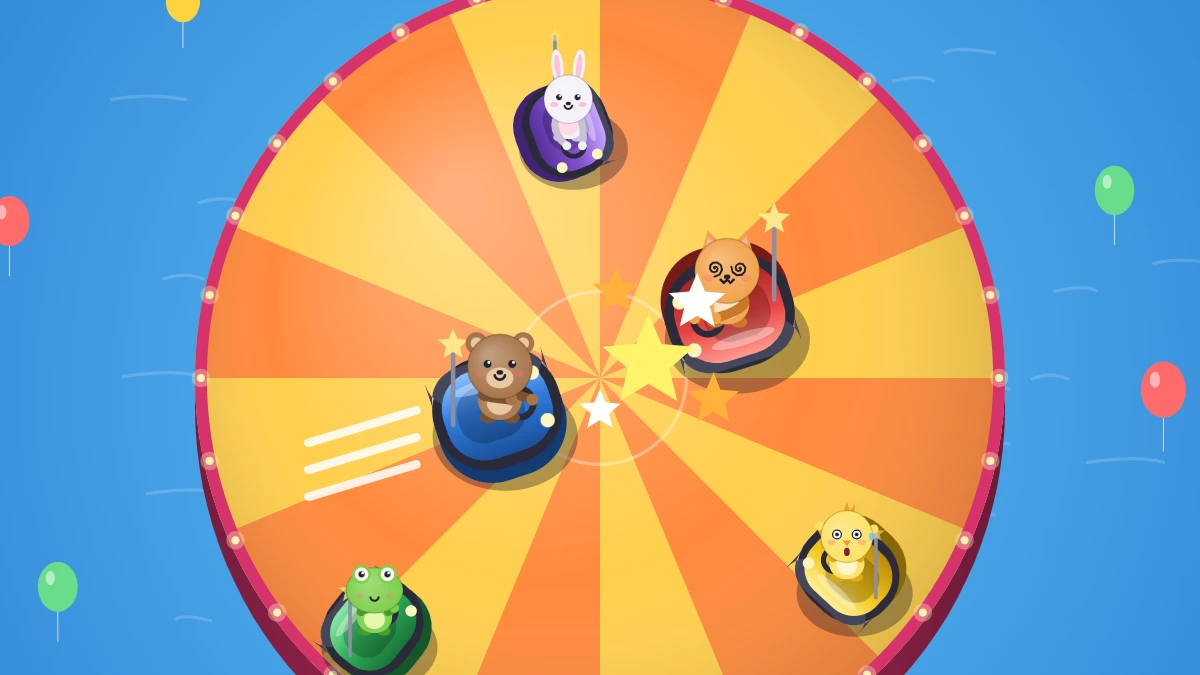
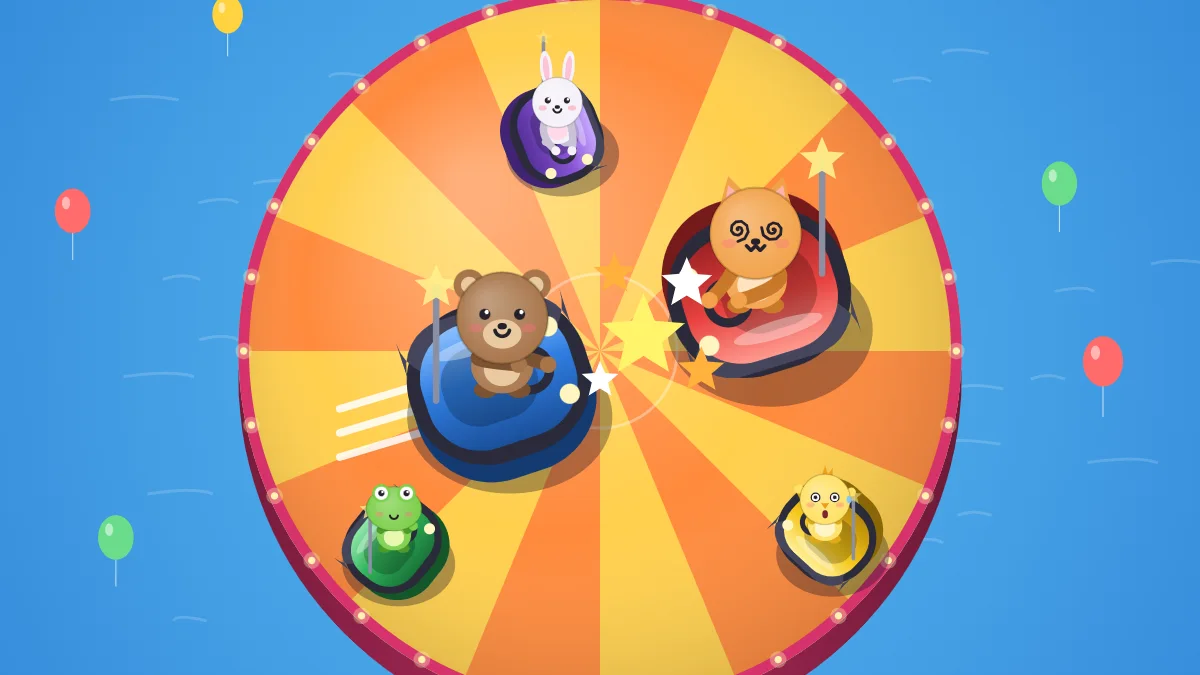
perf(seo): 優化搜尋摘要與遊戲宣傳圖

diff --git a/scripts/make-art.js b/scripts/make-art.js
@@ -18,43 +18,45 @@ function paint(args) {
   const cv = document.createElement('canvas'); cv.width = W; cv.height = H;
   const ctx = cv.getContext('2d');
   const th = Art.resolveTheme(0, 'promo');
-  function scene(cx, cy, u, opts) {
+  function scene(cx, cy, u, carScale) {
     Art.drawBelow(ctx, th, W, H, cx, cy, u, 1.2, true);
     Art.drawDecor(ctx, th, cx, cy, u, 7.5, 1.2, true);
     Art.drawArena(ctx, th, cx, cy, u, 7.5, 7.5, 0.35, { reduce: true });
     /* 衝刺撞擊瞬間：小熊（藍）衝向小貓（紅），旁邊青蛙、小雞、兔兔 */
-    const S = u * (opts.carScale || 1.9);
+    const S = u * carScale;
     const hit = [cx + u * 0.9, cy - u * 0.3];
     ctx.save(); ctx.strokeStyle = 'rgba(255,255,255,0.85)'; ctx.lineWidth = u * 0.16; ctx.lineCap = 'round';
     for (let k = -1; k <= 1; k++) { ctx.beginPath(); ctx.moveTo(cx - u * 3.4, cy + u * 1.1 + k * u * 0.5); ctx.lineTo(cx - u * 5.4, cy + u * 1.7 + k * u * 0.5); ctx.stroke(); }
     ctx.restore();
-    Art.drawCar(ctx, cx - u * 4.2, cy + u * 4.6, -0.9, S * 0.8, 2, { t: 0.4, mood: 'happy' });
-    Art.drawCar(ctx, cx + u * 4.6, cy + u * 3.6, -2.4, S * 0.8, 3, { t: 0.4, mood: 'shock' });
-    Art.drawCar(ctx, cx - u * 0.6, cy - u * 4.6, 1.2, S * 0.75, 4, { t: 0.4, mood: 'happy' });
-    Art.drawCar(ctx, cx - u * 1.9, cy + u * 0.6, -0.32, S, 0, { t: 0.4, mood: 'happy' });
-    Art.drawCar(ctx, cx + u * 2.4, cy - u * 1.2, Math.PI - 0.3, S, 1, { t: 0.4, mood: 'dizzy', flash: false });
+    Art.drawCar(ctx, cx - u * 4.3, cy + u * 4, -0.9, S * 0.55, 2, { t: 0.4, mood: 'happy' });
+    Art.drawCar(ctx, cx + u * 4.7, cy + u * 3.8, -2.4, S * 0.55, 3, { t: 0.4, mood: 'shock' });
+    Art.drawCar(ctx, cx - u * 0.9, cy - u * 4.5, 1.2, S * 0.55, 4, { t: 0.4, mood: 'happy' });
+    Art.drawCar(ctx, cx - u * 2.1, cy + u * 0.6, -0.32, S, 0, { t: 0.4, mood: 'happy' });
+    Art.drawCar(ctx, cx + u * 3.3, cy - u * 1.2, Math.PI - 0.3, S, 1, { t: 0.4, mood: 'dizzy' });
     const stars = [[0, 0, 0.9, '#fff36b'], [0.9, -1.1, 0.55, '#ffffff'], [-0.6, -1.3, 0.45, '#ffb13b'], [1.2, 0.7, 0.5, '#ffb13b'], [-0.9, 0.9, 0.4, '#ffffff']];
     stars.forEach((s) => Art.star(ctx, hit[0] + s[0] * u, hit[1] + s[1] * u, u * s[2], s[3]));
   }
   if (kind === 'seo') {
-    scene(W * 0.29, H * 0.56, H / 12.5, { carScale: 2.4 });
-    /* 右側標題 */
-    const g = ctx.createLinearGradient(W * 0.56, 0, W, 0);
-    g.addColorStop(0, 'rgba(29,22,64,0)'); g.addColorStop(0.18, 'rgba(29,22,64,0.82)'); g.addColorStop(1, 'rgba(29,22,64,0.92)');
-    ctx.fillStyle = g; ctx.fillRect(W * 0.56, 0, W * 0.44, H);
+    scene(W * 0.30, H * 0.52, H / 15, 3.4);
+    const g = ctx.createLinearGradient(W * 0.46, 0, W * 0.72, 0);
+    g.addColorStop(0, 'rgba(29,22,64,0)');
+    g.addColorStop(1, 'rgba(29,22,64,0.94)');
+    ctx.fillStyle = g;
+    ctx.fillRect(W * 0.46, 0, W * 0.54, H);
     ctx.textAlign = 'center'; ctx.textBaseline = 'middle';
-    const F = '"Baloo 2", "Noto Sans TC", "Microsoft JhengHei", sans-serif';
-    ctx.font = '900 112px ' + F;
+    ctx.font = '900 106px "Noto Sans TC", "Microsoft JhengHei", sans-serif';
     ctx.lineJoin = 'round';
     ['碰碰車', '大亂鬥'].forEach((line, i) => {
-      const y = H * 0.33 + i * 132;
-      ctx.lineWidth = 16; ctx.strokeStyle = '#b8236f'; ctx.strokeText(line, W * 0.79, y + 6);
-      ctx.shadowColor = '#ff4fa3'; ctx.shadowBlur = 28; ctx.fillStyle = '#ffffff'; ctx.fillText(line, W * 0.79, y); ctx.shadowBlur = 0;
+      const x = W * 0.76;
+      const y = H * 0.40 + i * 126;
+      ctx.lineWidth = 16;
+      ctx.strokeStyle = '#b8236f';
+      ctx.strokeText(line, x, y + 6);
+      ctx.fillStyle = '#ffffff';
+      ctx.fillText(line, x, y);
     });
-    ctx.font = '800 38px ' + F; ctx.fillStyle = '#ffd23f';
-    ctx.fillText('免費線上多人碰碰車對戰', W * 0.79, H * 0.73);
   } else if (kind === 'cover') {
-    scene(W * 0.5, H * 0.56, H / 12.5, { carScale: 2.4 });
+    scene(W * 0.5, H * 0.52, H / 14, 3.8);
   } else {
     /* 圖示：只留一台碰碰車＋撞擊星星 */
     const r = W * 0.22;
@@ -65,7 +67,9 @@ function paint(args) {
     Art.drawCar(ctx, W * 0.47, H * 0.6, -0.55, W * 0.56, 0, { t: 0.4, mood: 'happy' });
     Art.star(ctx, W * 0.8, H * 0.24, W * 0.13, '#ffe36b');
   }
-  return cv.toDataURL(kind === 'seo' || kind === 'cover' ? 'image/webp' : 'image/png', 0.92);
+  if (kind === 'seo') return cv.toDataURL('image/webp', 0.88);
+  if (kind === 'cover') return cv.toDataURL('image/webp', 0.84);
+  return cv.toDataURL('image/png');
 }
 
 function icoFrom(pngs) {

diff --git a/scripts/inject-seo.js b/scripts/inject-seo.js
@@ -8,7 +8,7 @@ const esc = value => String(value).replace(/&/g, '&amp;').replace(/"/g, '&quot;'
 const safeJson = value => JSON.stringify(value).replace(/</g, '\\u003c');
 
 function validate(cfg, gaId) {
-  for (const key of ['id', 'siteUrl', 'title', 'description', 'lobbyUrl', 'genre', 'players']) {
+  for (const key of ['id', 'siteUrl', 'title', 'description', 'lobbyUrl', 'lobbyName', 'genre', 'players']) {
     if (typeof cfg[key] !== 'string' || !cfg[key].trim()) throw new Error('seo.config.json 缺少欄位：' + key);
   }
   if (!/^[a-z0-9-]+$/.test(cfg.id) || cfg.siteUrl !== 'https://pjh-eric.github.io/' + cfg.id + '/') {
@@ -39,10 +39,10 @@ function inject(root, env = process.env) {
   const jsonLd = {
     '@context': 'https://schema.org', '@type': 'WebApplication',
     name: cfg.title.split('｜')[0], url: cfg.siteUrl, description: cfg.description,
-    applicationCategory: 'GameApplication', operatingSystem: 'Any', inLanguage: 'zh-Hant',
+    applicationCategory: 'GameApplication', operatingSystem: 'Any', inLanguage: ['zh-Hant', 'zh-Hans', 'en'],
     genre: cfg.genre, offers: { '@type': 'Offer', price: '0', priceCurrency: 'TWD' },
     image: cfg.ogImage || undefined, thumbnailUrl: cfg.ogImage || undefined,
-    isPartOf: { '@type': 'WebSite', url: cfg.lobbyUrl }
+    isPartOf: { '@type': 'WebSite', name: cfg.lobbyName, url: cfg.lobbyUrl }
   };
   const head = [
     MARK,
@@ -56,6 +56,7 @@ function inject(root, env = process.env) {
     '<meta name="robots" content="index, follow, max-image-preview:large">',
     '<meta property="og:type" content="website">',
     '<meta property="og:locale" content="zh_TW">',
+    '<meta property="og:site_name" content="' + esc(cfg.lobbyName) + '">',
     '<meta property="og:title" content="' + esc(cfg.title) + '">',
     '<meta property="og:description" content="' + esc(cfg.description) + '">',
     '<meta property="og:url" content="' + esc(cfg.siteUrl) + '">',

diff --git a/public/js/locales.js b/public/js/locales.js
@@ -4,8 +4,8 @@
   var I = root.I18N;
 
   I.register('zh-Hant', {
-    'meta.title': '碰碰車大亂鬥｜免費線上多人碰碰車對戰',
-    'meta.desc': '免費免下載的碰碰車大亂鬥！2～6 台可愛動物碰碰車擠在越縮越小的擂台上，衝刺把對手撞出場外。單機五段電腦、自由練習，也能線上多人對戰、觀戰聊天，手機平板觸控都好玩。',
+    'meta.title': '碰碰車大亂鬥｜免費 2～6 人線上擂台對戰',
+    'meta.desc': '駕駛動物碰碰車，在越縮越小的圓形擂台上衝刺，把對手撞出場外！免下載，支援手機、平板和鍵盤。可自由練習、挑戰五段電腦，或與好友線上混戰、組隊、觀戰。',
     'game.name': '碰碰車大亂鬥',
     'lang.label': '語言',
     'common.back': '返回', 'common.cancel': '取消', 'common.close': '關閉', 'common.done': '完成', 'common.ok': '確定', 'common.you': '你',
@@ -148,7 +148,7 @@
 
   I.register('en', {
     'meta.title': 'Bumper Brawl | Free Online Multiplayer Bumper Cars',
-    'meta.desc': 'Free bumper car brawl, no download! 2–6 cute animal bumper cars on a shrinking arena — dash to knock rivals off. Five AI levels, free practice, online multiplayer with spectating and chat. Great on phones and tablets.',
+    'meta.desc': 'Dash around a shrinking arena and knock rival bumper cars off the edge. Practice, face five AI levels, or play with 2–6 online players. No download required.',
     'game.name': 'Bumper Brawl',
     'lang.label': 'Language',
     'common.back': 'Back', 'common.cancel': 'Cancel', 'common.close': 'Close', 'common.done': 'Done', 'common.ok': 'OK', 'common.you': 'You',

diff --git a/tests/seo.js b/tests/seo.js
@@ -37,9 +37,12 @@ try {
   assert.equal((built.match(/rel="canonical"/g) || []).length, 1);
   assert.ok(built.includes('href="' + cfg.siteUrl + '"'));
   assert.ok(built.includes('property="og:title"'));
+  assert.ok(built.includes('property="og:site_name" content="' + cfg.lobbyName + '"'));
   assert.ok(built.includes('name="twitter:card"'));
   const ld = JSON.parse(built.match(/<script type="application\/ld\+json">([\s\S]*?)<\/script>/)[1]);
   assert.equal(ld.url, cfg.siteUrl);
+  assert.deepEqual(ld.inLanguage, ['zh-Hant', 'zh-Hans', 'en']);
+  assert.equal(ld.isPartOf.url, cfg.lobbyUrl);
   if (cfg.ogImage) {
     assert.equal(ld.image, cfg.ogImage);
     assert.equal(ld.thumbnailUrl, cfg.ogImage);
@@ -47,6 +50,7 @@ try {
     assert.ok(built.includes('property="og:image:type" content="image/webp"'));
     assert.ok(built.includes('property="og:image:width" content="1200"'));
     assert.ok(built.includes('property="og:image:height" content="675"'));
+    assert.ok(built.includes('property="og:image:alt" content="' + cfg.ogImageAlt + '"'));
     assert.ok(built.includes('name="twitter:image" content="' + cfg.ogImage + '"'));
   }
   const sitemap = fs.readFileSync(path.join(temp, 'public/sitemap.xml'), 'utf8');

diff --git a/public/index.html b/public/index.html
@@ -4,8 +4,8 @@
 <meta charset="utf-8">
 <meta name="viewport" content="width=device-width, initial-scale=1, viewport-fit=cover, user-scalable=no">
 <meta name="theme-color" content="#1d1640">
-<title data-i18n-title="meta.title">碰碰車大亂鬥｜免費線上多人碰碰車對戰</title>
-<meta name="description" data-i18n-content="meta.desc" content="免費免下載的碰碰車大亂鬥！2～6 台可愛動物碰碰車擠在越縮越小的擂台上，衝刺把對手撞出場外。單機五段電腦、自由練習，也能線上多人對戰、觀戰聊天，手機平板觸控都好玩。">
+<title data-i18n-title="meta.title">碰碰車大亂鬥｜免費 2～6 人線上擂台對戰</title>
+<meta name="description" data-i18n-content="meta.desc" content="駕駛動物碰碰車，在越縮越小的圓形擂台上衝刺，把對手撞出場外！免下載，支援手機、平板和鍵盤。可自由練習、挑戰五段電腦，或與好友線上混戰、組隊、觀戰。">
 <!--SEO:HEAD-->
 <link rel="preconnect" href="https://fonts.googleapis.com">
 <link rel="preconnect" href="https://fonts.gstatic.com" crossorigin>

diff --git a/public/js/locales-hans.js b/public/js/locales-hans.js
@@ -194,8 +194,8 @@
     "lv.mythic": "神话",
     "lv.normal": "普通",
     "lv.tag": "（{lv}）",
-    "meta.desc": "免费免下载的碰碰车大乱斗！2～6 台可爱动物碰碰车挤在越缩越小的擂台上，冲刺把对手撞出场外。单机五段电脑、自由练习，也能在线多人对战、观战聊天，手机平板触摸都好玩。",
-    "meta.title": "碰碰车大乱斗｜免费在线多人碰碰车对战",
+    "meta.desc": "驾驶动物碰碰车，在越缩越小的圆形擂台上冲刺，把对手撞出场外！免下载，支持手机、平板和键盘。可自由练习、挑战五段电脑，或与好友在线混战、组队、观战。",
+    "meta.title": "碰碰车大乱斗｜免费 2～6 人在线擂台对战",
     "mode.2v2": "2 对 2",
     "mode.3v3": "3 对 3",
     "mode.ffa": "个人混战",
